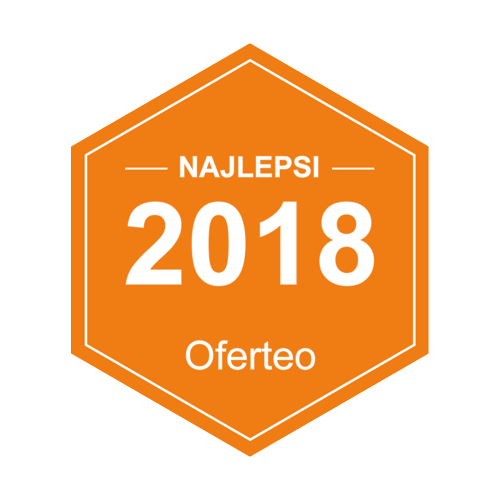
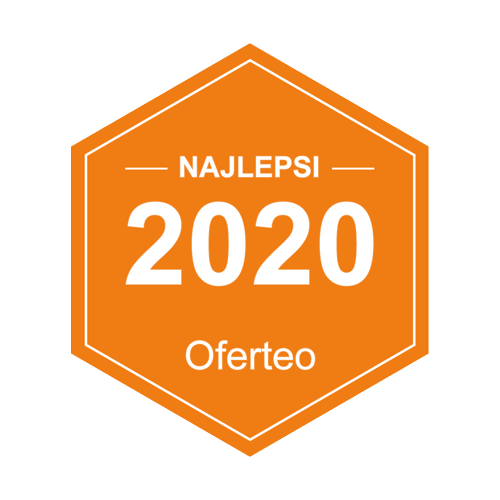
change meta description

Changed region(s): [[0.51, 0.39, 0.75, 0.57]]

diff --git a/index.html b/index.html
@@ -18,7 +18,7 @@
   <meta charset="utf-8">
   <meta name="viewport" content="width=device-width, initial-scale=1, shrink-to-fit=no">
   <meta name="keywords" content="Poznań, Mitra, posadzki, anhydrytowe, WaaB, ">
-  <meta name="description" content="Posadzki anhydrytowe Poznań, Agilia Sols A firmy WaaB, doskonale sprawdzają się na system ogrzewania podłogowego, w porównaniu z posadzkami cementowymi mają lepszą przewodność cieplną oraz ze względu na jednorodną strukturę ograniczają straty ciepła.">
+  <meta name="description" content="Posadzki anhydrytowe Poznań, Termo Floor firmy WaaB, doskonale sprawdzają się na system ogrzewania podłogowego, w porównaniu z posadzkami cementowymi mają lepszą przewodność cieplną oraz ze względu na jednorodną strukturę ograniczają straty ciepła.">
   <meta name="author" content="Paweł Białek">
   <link rel="icon" href="images/mitra-male.png" type="image/x-icon">
 
@@ -48,7 +48,7 @@
     <div class="modal-dialog modal-dialog-centered" role="document">
       <div class="modal-content text-center">
         <div class="modal-header">
-          <h5 class="modal-title" id="exampleModalLongTitle">MITRA - NAJLEPSZE POSADZKI W 2018</h5>
+          <h5 class="modal-title" id="exampleModalLongTitle">MITRA - NAJLEPSZE POSADZKI W 2020</h5>
           <button type="button" class="close" data-dismiss="modal" data-target="#myModal">
             <span aria-hidden="true">&times;</span>
           </button>
@@ -58,7 +58,7 @@
 
           </div>
           <p>
-            Chcielibyśmy się pochawalić, że MITRA zdobyła tytuł najlepsi 2018 wśród specjalistów od posadzek w Poznaniu. To dzięki naszym klientom jesteśmy jednym z najlepiej ocenianych profesjonalistów.</p>
+            Chcielibyśmy się pochawalić, że MITRA zdobyła tytuł najlepsi 2020 wśród specjalistów od posadzek w Poznaniu. To dzięki naszym klientom jesteśmy jednym z najlepiej ocenianych profesjonalistów.</p>
             <p>
               Dziękujemy!
             </p>
@@ -262,7 +262,7 @@
   <!-- Footer -->
   <footer class="py-5 bg-dark">
     <div class="container">
-      <p class="m-0 text-center text-white">Copyright &copy; Paweł Białek 2018</p>
+      <p class="m-0 text-center text-white">Copyright &copy; Paweł Białek 2020</p>
     </div>
     <!-- /.container -->
   </footer>

diff --git a/oferta.html b/oferta.html
@@ -18,7 +18,7 @@
   <meta charset="utf-8">
   <meta name="viewport" content="width=device-width, initial-scale=1, shrink-to-fit=no">
   <meta name="keywords" content="Poznań, Mitra, posadzki, anhydrytowe, WaaB, ">
-  <meta name="description" content="Posadzki anhydrytowe Poznań, Agilia Sols A firmy WaaB, doskonale sprawdzają się na system ogrzewania podłogowego, w porównaniu z posadzkami cementowymi mają lepszą przewodność cieplną oraz ze względu na jednorodną strukturę ograniczają straty ciepła.">
+  <meta name="description" content="Posadzki anhydrytowe Poznań, Termo Floor firmy WaaB, doskonale sprawdzają się na system ogrzewania podłogowego, w porównaniu z posadzkami cementowymi mają lepszą przewodność cieplną oraz ze względu na jednorodną strukturę ograniczają straty ciepła.">
   <meta name="author" content="Paweł Białek">
   <link rel="icon" href="images/mitra-male.png" type="image/x-icon">
 
@@ -196,7 +196,7 @@
     <!-- Footer -->
     <footer class="py-5 bg-dark">
       <div class="container">
-        <p class="m-0 text-center text-white">Copyright &copy; Paweł Białek 2018</p>
+        <p class="m-0 text-center text-white">Copyright &copy; Paweł Białek 2020</p>
       </div>
       <!-- /.container -->
     </footer>

diff --git a/o-firmie.html b/o-firmie.html
@@ -18,7 +18,7 @@
   <meta charset="utf-8">
   <meta name="viewport" content="width=device-width, initial-scale=1, shrink-to-fit=no">
   <meta name="keywords" content="Poznań, Mitra, posadzki, anhydrytowe, Lafarge, ">
-  <meta name="description" content="Posadzki anhydrytowe Poznań, Agilia Sols A firmy Lafarge, doskonale sprawdzają się na system ogrzewania podłogowego, w porównaniu z posadzkami cementowymi mają lepszą przewodność cieplną oraz ze względu na jednorodną strukturę ograniczają straty ciepła.">
+  <meta name="description" content="Posadzki anhydrytowe Poznań, Termo Floor firmy WaaB, doskonale sprawdzają się na system ogrzewania podłogowego, w porównaniu z posadzkami cementowymi mają lepszą przewodność cieplną oraz ze względu na jednorodną strukturę ograniczają straty ciepła.">
   <meta name="author" content="Paweł Białek">
   <link rel="icon" href="images/mitra-male.png" type="image/x-icon">
 
@@ -147,7 +147,7 @@
   <!-- Footer -->
   <footer class="py-5 bg-dark">
     <div class="container">
-      <p class="m-0 text-center text-white">Copyright &copy; Paweł Białek 2018</p>
+      <p class="m-0 text-center text-white">Copyright &copy; Paweł Białek 2020</p>
     </div>
     <!-- /.container -->
   </footer>

diff --git a/doradzctwo-techniczne.html b/doradzctwo-techniczne.html
@@ -512,7 +512,7 @@ WaaB<!DOCTYPE html>
       <!-- Footer -->
       <footer class="py-5 bg-dark">
         <div class="container">
-          <p class="m-0 text-center text-white">Copyright &copy; Paweł Białek 2018</p>
+          <p class="m-0 text-center text-white">Copyright &copy; Paweł Białek 2020</p>
         </div>
         <!-- /.container -->
       </footer>

diff --git a/realizacje.html b/realizacje.html
@@ -202,7 +202,7 @@
     <!-- Footer -->
     <footer class="py-5 bg-dark">
       <div class="container">
-        <p class="m-0 text-center text-white">Copyright &copy; Paweł Białek 2018</p>
+        <p class="m-0 text-center text-white">Copyright &copy; Paweł Białek 2020</p>
       </div>
       <!-- /.container -->
     </footer>

diff --git a/kariera.html b/kariera.html
@@ -182,7 +182,7 @@
   <!-- Footer -->
   <footer class="py-5 bg-dark">
     <div class="container">
-      <p class="m-0 text-center text-white">Copyright &copy; Paweł Białek 2018</p>
+      <p class="m-0 text-center text-white">Copyright &copy; Paweł Białek 2020</p>
     </div>
     <!-- /.container -->
   </footer>

diff --git a/kontakt.html b/kontakt.html
@@ -180,7 +180,7 @@
   <!-- Footer -->
   <footer class="py-5 bg-dark">
     <div class="container">
-      <p class="m-0 text-center text-white">Copyright &copy; Paweł Białek 2018</p>
+      <p class="m-0 text-center text-white">Copyright &copy; Paweł Białek 2020</p>
     </div>
     <!-- /.container -->
   </footer>

diff --git a/posadzki-anhydrytowe.html b/posadzki-anhydrytowe.html
@@ -155,7 +155,7 @@
   <!-- Footer -->
   <footer class="py-5 bg-dark">
     <div class="container">
-      <p class="m-0 text-center text-white">Copyright &copy; Paweł Białek 2018</p>
+      <p class="m-0 text-center text-white">Copyright &copy; Paweł Białek 2020</p>
     </div>
     <!-- /.container -->
   </footer>
